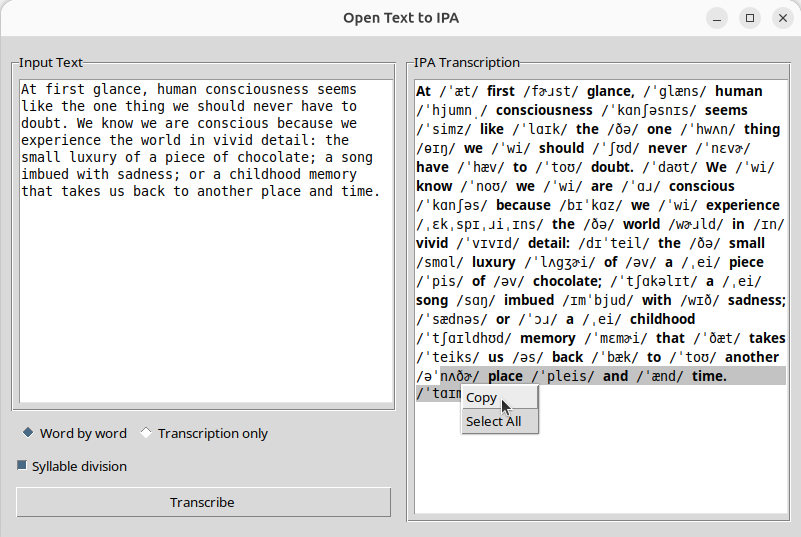
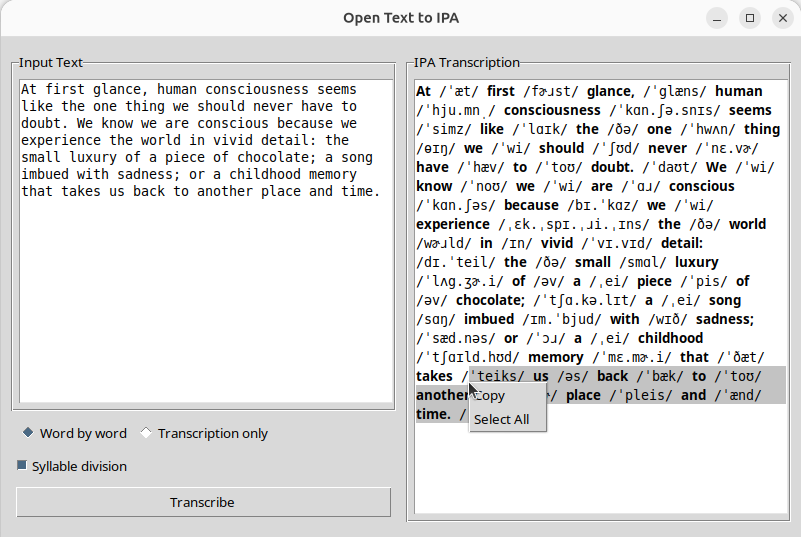
new: Separate style for IPA and non-IPA text in output, non-IPA in bold and IPA between '/'. Preserving formatting over copy and paste

Changed region(s): [[0.4994, 0.3575, 0.9988, 0.8343], [0.5618, 0.1788, 0.9675, 0.2384], [0.9051, 0.2682, 0.9363, 0.298]]

diff --git a/transcriber.py b/transcriber.py
@@ -95,6 +95,10 @@ def transcrever_texto_com_estilos(
             if ipa == f"{prefix}[{word}]{suffix}":
                 styled_parts.append((part, True))
                 continue
+            if ipa.startswith(prefix) and (not suffix or ipa.endswith(suffix)):
+                ipa = ipa[len(prefix):]
+                if suffix:
+                    ipa = ipa[:-len(suffix)]
         else:
             prefix = suffix = ""
 
@@ -107,6 +111,7 @@ def transcrever_texto_com_estilos(
                     character
                     for character in ipa
                     if not unicodedata.category(character).startswith("P")
+                    or (character == "." and silabas)
                 )
                 ipa_is_transcription = True
             styled_parts.append((part, True))
@@ -116,12 +121,9 @@ def transcrever_texto_com_estilos(
         elif ipa.startswith("[erro:"):
             styled_parts.append((ipa, True))
         elif ipa != part and word_match:
-            transcription = ipa[len(prefix):]
-            if suffix:
-                transcription = transcription[:-len(suffix)]
             styled_parts.extend((
                 (prefix, True),
-                (transcription, False),
+                (ipa, False),
                 (suffix, True),
             ))
         else:

diff --git a/README.md b/README.md
@@ -47,7 +47,7 @@ PySLE’s bundled pronunciation data is the ISLE dictionary. See the [ISLEX proj
 
 1. Paste English text into the left text area.
 2. Choose a transcription mode (the default is **Word by word**):
-   - **Word by word**: Each original word is followed by its IPA transcription in `/slashes/`; punctuation and syllable dots are omitted from the IPA
+   - **Word by word**: Each original word is followed by its IPA transcription in `/slashes/`; punctuation is omitted, while syllable dots follow the checkbox setting
    - **Transcription only**: A single continuous IPA line for the whole text
 3. "Syllable division" is enabled by default; uncheck it to remove dot separators between syllables.
 4. Click "Transcribe" to convert the text to IPA.
